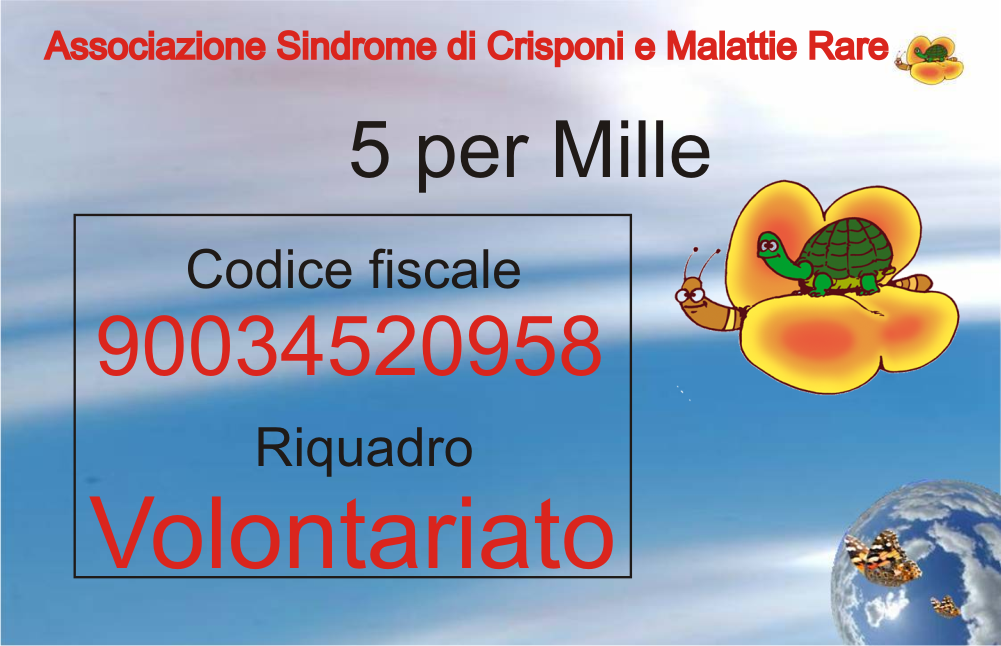
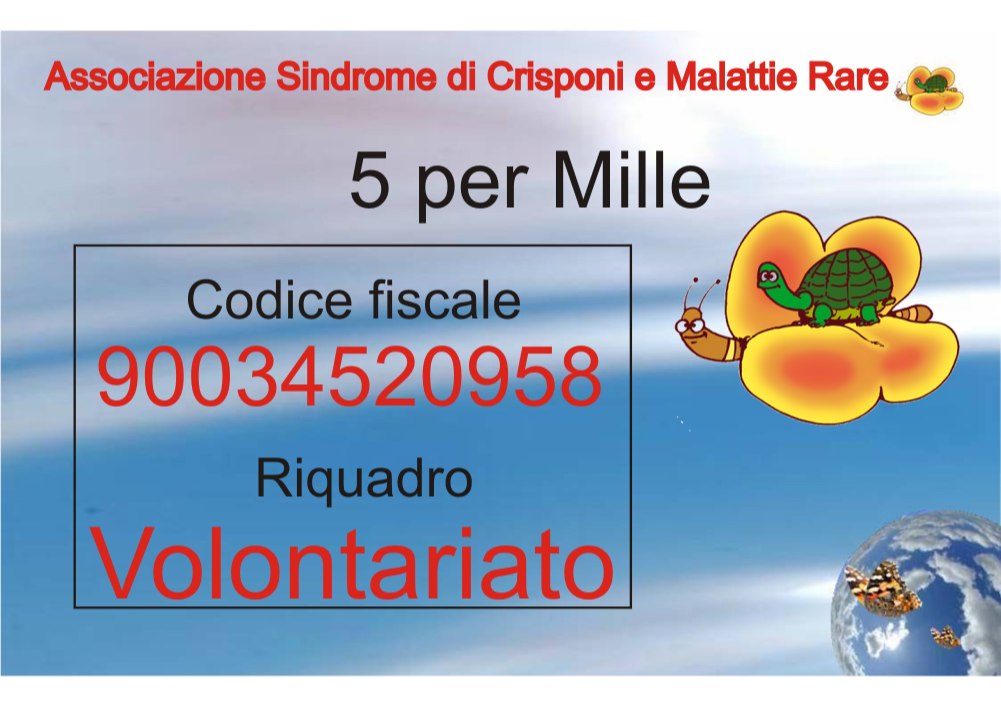
h1 - image responsiveness

diff --git a/src/home.css b/src/home.css
@@ -22,9 +22,9 @@
   max-width: 600px;
 }
 
-.img_content {
-  object-fit: scale-down;
-  margin: 50px 50px 50px 50px;
+.box_content h1 {
+  font-size: clamp(1.5rem, 2vw + 1rem, 2.25rem);
+  margin: 0 0 16px;
 }
 
 @media (max-width: 900px) {
@@ -35,6 +35,17 @@
   .box,
   .box_content {
     width: calc(100% - 40px);
-    margin: 20px;
+  }
+
+  .box {
+    margin: 20px 20px 0 20px;
+  }
+
+  .box_content {
+    margin: 0 20px 20px 20px;
+  }
+
+  .box_content h1 {
+    font-size: clamp(1.4rem, 6vw, 2rem);
   }
 }

diff --git a/src/imagebox.css b/src/imagebox.css
@@ -7,6 +7,8 @@
 
 .img_content .each-slide-effect {
   width: 100%;
+  box-sizing: border-box;
+  padding: 0 16px;
 }
 
 .img_content img {
@@ -15,11 +17,15 @@
   background-color: #fff;
   width: 100%;
   height: auto;
-  aspect-ratio: 4 / 3;
+  aspect-ratio: 1001 / 707;
 }
 
 @media (max-width: 900px) {
   .img_content {
     margin: 20px auto;
+  }
+
+  .img_content .each-slide-effect {
+    padding: 0 8px;
   }
 }
